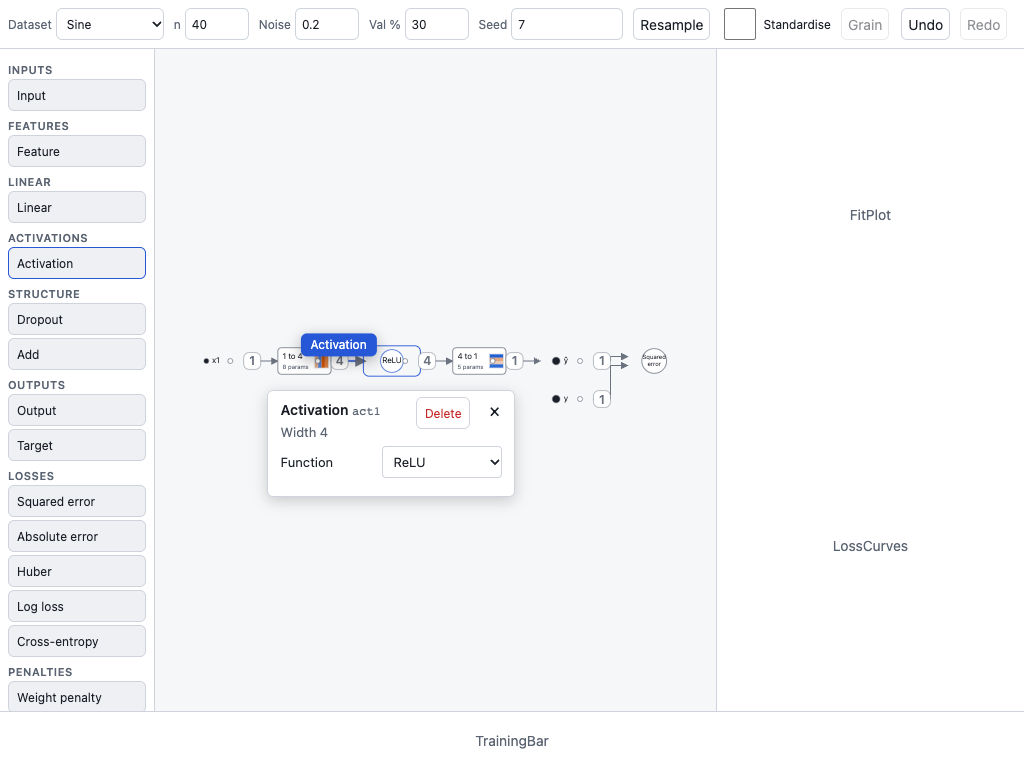
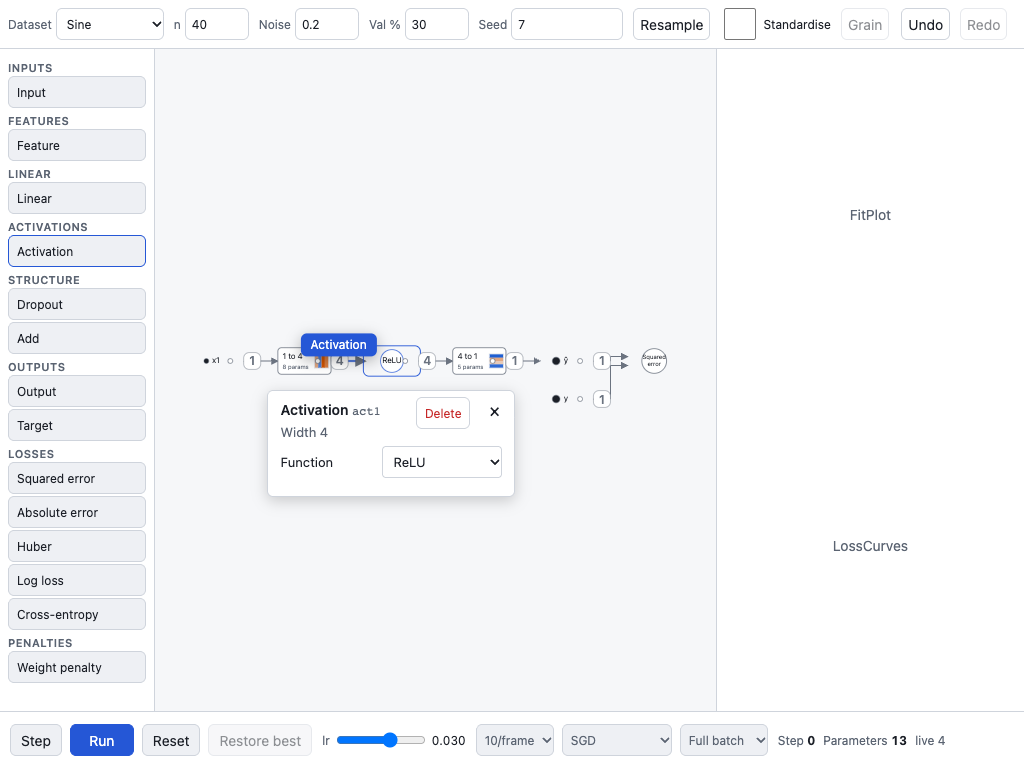
tinker-27m.4: review fixes

diff --git a/packages/web/src/palette/Palette.tsx b/packages/web/src/palette/Palette.tsx
@@ -1,4 +1,4 @@
-import { useSyncExternalStore } from 'react';
+import { useEffect, useSyncExternalStore } from 'react';
 import { PALETTE, type PaletteEntry } from '@tinker/core';
 import { dnd } from '../canvas/dnd.js';
 import { startDrag } from '../gestures/drag.js';
@@ -23,6 +23,7 @@ const GROUPS: { family: PaletteEntry['family']; label: string }[] = [
 export function Palette() {
   const drag = useSyncExternalStore(dnd.subscribe, dnd.get, () => null);
   const dragging = drag?.payload.kind === 'palette' ? drag.payload.entry : null;
+  useEffect(() => () => dnd.cancel(), []); // unmounted mid-drag: leave no ghost
   return (
     <div className="tk-palette" data-testid="palette">
       {GROUPS.map((g) => (
@@ -37,10 +38,20 @@ export function Palette() {
               data-dragging={dragging?.key === entry.key}
               onPointerDown={(e) => {
                 if (e.pointerType === 'mouse' && e.button !== 0) return;
+                // Touch: the palette scrolls vertically (`touch-action: pan-y`), so a drag begins
+                // only once the movement is mostly horizontal; a vertical swipe is left to scroll.
+                const touch = e.pointerType !== 'mouse';
+                let begun = false;
                 startDrag(e, {
-                  onStart: (p) => dnd.begin({ kind: 'palette', entry }, p.x, p.y),
-                  onMove: (p) => dnd.move(p.x, p.y),
-                  onEnd: (p) => dnd.end(p.x, p.y),
+                  onMove: (p) => {
+                    if (!begun) {
+                      if (touch && Math.abs(p.dx) < Math.abs(p.dy)) return;
+                      begun = true;
+                      dnd.begin({ kind: 'palette', entry }, p.x, p.y);
+                    }
+                    dnd.move(p.x, p.y);
+                  },
+                  onEnd: (p) => (begun ? dnd.end(p.x, p.y) : undefined),
                   onCancel: () => dnd.cancel(),
                 });
               }}

diff --git a/packages/web/test/building.test.tsx b/packages/web/test/building.test.tsx
@@ -133,3 +133,32 @@ test('Delete removes the selected piece, Cmd+Z restores, and a cycle shows the t
   expect(s().graph).toBe(original);
   expect(must('toast').textContent?.length).toBeGreaterThan(5);
 });
+
+test('edits during a run: a drop and a delete do not throw and pause the run; a refused drop toasts', () => {
+  act(() => useStore.setState({ running: true }));
+  const [lx, ly] = screenOf((l) => {
+    const w = l.wires.find((x) => x.edge === 1);
+    return w ? w.labelAt : [0, 0];
+  });
+  expect(() => dragEntry('dropout', [lx, ly])()).not.toThrow();
+  expect(s().graph.nodes.some((n) => n.id === 'dropout1')).toBe(true);
+  expect(s().running).toBe(false);
+
+  act(() => useStore.setState({ running: true }));
+  act(() => s().selectNode('dropout1'));
+  expect(() =>
+    act(() => void window.dispatchEvent(new KeyboardEvent('keydown', { key: 'Backspace' }))),
+  ).not.toThrow();
+  expect(s().graph.nodes.some((n) => n.id === 'dropout1')).toBe(false);
+  expect(s().running).toBe(false);
+
+  // Target onto the Output: same family, but the edit refuses it.
+  const before = s().graph;
+  const [yx, yy] = screenOf((l) => {
+    const b = l.nodes['yhat'];
+    return b ? [b.x + b.w / 2, b.y + b.h / 2] : [0, 0];
+  });
+  dragEntry('target', [yx, yy])();
+  expect(s().graph).toBe(before);
+  expect(must('toast').textContent?.length).toBeGreaterThan(5);
+});

diff --git a/packages/web/src/canvas/Canvas.tsx b/packages/web/src/canvas/Canvas.tsx
@@ -10,6 +10,7 @@ import {
   resolveDrop,
   type DragPayload,
 } from './dnd.js';
+import { lockedIds } from '../state/locks.js';
 import { Inspector } from './Inspector.js';
 import { LayerView } from './LayerView.js';
 import { Toast } from './Toast.js';
@@ -95,6 +96,7 @@ export function Canvas() {
   const selectNode = useStore((s) => s.selectNode);
   const drag = useSyncExternalStore(dnd.subscribe, dnd.get, () => null);
   useEditShortcuts();
+  useEffect(() => () => dnd.cancel(), []); // unmounted mid-drag: leave no preview
 
   const layout = useMemo(() => layoutLayers(graph, analysis), [graph, analysis]);
   const t: Transform = useMemo(() => fitTransform(layout.size, view), [layout.size, view]);
@@ -132,7 +134,7 @@ export function Canvas() {
           coarse ? 32 : 20,
         ),
       commit: (payload, target) => {
-        const edit = editForDrop(graph, payload, target);
+        const edit = editForDrop(graph, payload, target, { locked: lockedIds() });
         if (!edit) return;
         const result = apply(edit);
         if (result.ok && result.select !== undefined) selectNode(result.select);

diff --git a/packages/web/src/canvas/drawings/fields.tsx b/packages/web/src/canvas/drawings/fields.tsx
@@ -8,6 +8,7 @@ import {
   type NodeId,
   type Penalty,
 } from '@tinker/core';
+import { lockedIds } from '../../state/locks.js';
 import { useStore } from '../../state/store.js';
 
 function run(make: (g: ReturnType<typeof useStore.getState>['graph']) => EditResult): void {
@@ -16,9 +17,11 @@ function run(make: (g: ReturnType<typeof useStore.getState>['graph']) => EditRes
 }
 
 export const editSetting = (id: NodeId, key: string, value: unknown) =>
-  run((g) => setSetting(g, id, key, value));
-export const editOut = (id: NodeId, out: number) => run((g) => setLinearOut(g, id, out));
-export const editPenalty = (id: NodeId, p: Penalty | null) => run((g) => setPenalty(g, id, p));
+  run((g) => setSetting(g, id, key, value, { locked: lockedIds() }));
+export const editOut = (id: NodeId, out: number) =>
+  run((g) => setLinearOut(g, id, out, { locked: lockedIds() }));
+export const editPenalty = (id: NodeId, p: Penalty | null) =>
+  run((g) => setPenalty(g, id, p, { locked: lockedIds() }));
 
 export function Field({ label, children }: { label: string; children: ReactNode }) {
   return (

diff --git a/packages/web/src/canvas/actions.ts b/packages/web/src/canvas/actions.ts
@@ -1,5 +1,6 @@
 import { useEffect } from 'react';
 import { deleteEdge, deleteNode } from '@tinker/core';
+import { lockedIds } from '../state/locks.js';
 import { useStore } from '../state/store.js';
 import { edgeIndexOf } from './pure.js';
 
@@ -8,12 +9,12 @@ export function deleteSelection(): void {
   const { graph, selection, apply, select } = useStore.getState();
   if (!selection) return;
   if (selection.kind === 'node') {
-    if (apply(deleteNode(graph, selection.id)).ok) select(null);
+    if (apply(deleteNode(graph, selection.id, { locked: lockedIds() })).ok) select(null);
     return;
   }
   const i = edgeIndexOf(graph, selection.from, selection.to);
   if (i < 0) return;
-  if (apply(deleteEdge(graph, i)).ok) select(null);
+  if (apply(deleteEdge(graph, i, { locked: lockedIds() })).ok) select(null);
 }
 
 /** Whether keyboard shortcuts should leave this event target to the browser (typing in a field). */

diff --git a/packages/web/src/palette/palette.css b/packages/web/src/palette/palette.css
@@ -5,7 +5,7 @@
   font-size: 12px;
 }
 .tk-palette-group h3 {
-  margin: 8px 0 3px;
+  margin: 6px 0 2px;
   font-size: 11px;
   font-weight: 600;
   letter-spacing: 0.04em;
@@ -16,7 +16,7 @@
   display: block;
   width: 100%;
   min-height: 28px;
-  margin: 0 0 3px;
+  margin: 0 0 2px;
   padding: 3px 8px;
   text-align: left;
   font: inherit;
@@ -25,7 +25,7 @@
   border: 1px solid var(--border);
   border-radius: var(--radius);
   cursor: grab;
-  touch-action: none;
+  touch-action: pan-y; /* a vertical swipe scrolls the palette; a horizontal one starts a drag */
   user-select: none;
   -webkit-user-select: none;
 }

diff --git a/packages/web/src/state/locks.ts b/packages/web/src/state/locks.ts
@@ -1,0 +1,10 @@
+import type { NodeId } from '@tinker/core';
+
+/**
+ * The pieces the current preset locks (CONTRACTS.md sections 8 and 12). Every web edit call site
+ * passes `{ locked: lockedIds() }`; the presets bead (tinker-ysl.2) fills this in from the loaded
+ * preset. Until then nothing is locked.
+ */
+export function lockedIds(): readonly NodeId[] {
+  return [];
+}

diff --git a/packages/web/src/canvas/Toast.tsx b/packages/web/src/canvas/Toast.tsx
@@ -14,7 +14,7 @@ export function Toast() {
   }, [error, clearError]);
   if (!error) return null;
   return (
-    <div className="tk-toast" role="alert" data-testid="toast" onClick={clearError}>
+    <div className="tk-toast" role="alert" data-testid="toast">
       {error}
     </div>
   );

diff --git a/packages/web/src/canvas/canvas.css b/packages/web/src/canvas/canvas.css
@@ -307,7 +307,7 @@ path.tk-hit {
   border-radius: var(--radius);
   box-shadow: 0 4px 14px rgb(0 0 0 / 0.18);
   font-size: 13px;
-  cursor: pointer;
+  pointer-events: none; /* never swallows a canvas tap; it fades by itself */
 }
 .tk-inspector-delete {
   position: absolute;

diff --git a/CONTRACTS.md b/CONTRACTS.md
@@ -373,7 +373,7 @@ Choices fixed by `layout.ts` (constants in the exported `LAYOUT`; all in abstrac
   - `WebPiece.Layer` now takes `LayerProps` (`node`, `w`, `h`, `inWidth?`, `outWidth?`, `paramCount`, `weights?: { W, rows, cols }`) and is drawn with its box's top-left at (0, 0) (LayerView does the translate). Shapes use the `tk-*` classes in `canvas/canvas.css` so error and selected states recolour them. `Fields` edit only through core edits and `graphSlice.apply`.
   - Weights for drawing come from `useWeights(analysis)` (`state/derived.ts`): the train slice's `host` when it has one (read structurally as `s.host`, so tinker-27m.2 should name its HostParams snapshot `host`), else `initParams(graph, analysis, graph.train.seed)`. Missing entries and arrays whose length does not match `in * out` are skipped, never an error.
   - Issue placement (`placeIssues`): an issue with an edge that has a wire goes on the wire; only the Output-versus-loss compatibility issues (link does not suit the loss, output width) go on the Output's wire into `loss.pred` (`wireOfNode`); "needs an input", cycles, duplicate ids and every other node issue stay at the piece, and the wire inspector shows exactly the sentences the callout shows; other node issues sit under the piece; anything else is one global line at the top of the canvas. Every piece named by an issue gets a red dashed outline.
-- Building gestures (tinker-27m.4, `canvas/dnd.ts`, `canvas/actions.ts`, `palette/Palette.tsx`): a gesture in progress lives in a small external store `dnd` (not a slice): `begin/move/end/cancel`, and the canvas registers `setHandler({ resolve, commit })` while mounted. `resolveDrop(payload, graph, layout, widths, scale, point)` and `editForDrop(graph, payload, target)` are pure. Drop targets use `layerHitShapes` (a wire's label first, the wire line within 16 px as fallback; pieces before wire lines). `layerHitShapes` takes an optional `outputs` set and then adds a `{ kind: 'port', node }` shape (32 px square, centred `PORT_INSET` units inside the right edge of the piece so it stays clear of the label), painted between pieces and labels; `data-testid` `port-out-<id>` is the handle to drag a wire from. A drop applies the edit through `graphSlice.apply` and selects `result.select`; a refused edit shows its sentence in `<Toast/>` (`data-testid="toast"`, reads `graphSlice.error`). Delete/Backspace and the inspector `inspector-delete` button call `deleteSelection()`; Ctrl/Cmd+Z, Shift+Ctrl/Cmd+Z and `btn-undo`/`btn-redo` in the top bar.
+- Building gestures (tinker-27m.4, `canvas/dnd.ts`, `canvas/actions.ts`, `palette/Palette.tsx`): a gesture in progress lives in a small external store `dnd` (not a slice): `begin/move/end/cancel`, and the canvas registers `setHandler({ resolve, commit })` while mounted. `resolveDrop(payload, graph, layout, widths, scale, point, hitPx)` (`hitPx` 20 mouse, 32 touch) and `editForDrop(graph, payload, target, opts?)` (`opts.locked`, from `lockedIds()` in `state/locks.ts`, which every web edit call site passes) are pure. Drop targets use `layerHitShapes` (a wire's label first, the wire line within 10 px (mouse) or 16 px (touch) as fallback; pieces before wire lines). `layerHitShapes` takes an optional `outputs` set and then adds a `{ kind: 'port', node }` shape (32 px square, centred `PORT_INSET` units inside the right edge of the piece so it stays clear of the label), painted between pieces and labels; `data-testid` `port-out-<id>` is the handle to drag a wire from. A drop applies the edit through `graphSlice.apply` and selects `result.select`; a refused edit shows its sentence in `<Toast/>` (`data-testid="toast"`, reads `graphSlice.error`). An edit during a run is applied as usual and the train slice recompiles and pauses on a structural change. On touch the palette scrolls vertically (`touch-action: pan-y`) and a drag begins on mostly horizontal movement. Delete/Backspace and the inspector `inspector-delete` button call `deleteSelection()`; Ctrl/Cmd+Z, Shift+Ctrl/Cmd+Z and `btn-undo`/`btn-redo` in the top bar.
 - `data-testid` on: every palette entry (`palette-<key>`), every node (`node-<id>`), every wire (`wire-<index>`) and its label (`wire-label-<index>`), `btn-step`, `btn-run`, `btn-reset`, `step-count`, `param-count`, `status-diverged`, `fit-plot`, `loss-curves`, `grain-toggle`.
 
 ## 11. PyTorch reference fixtures
